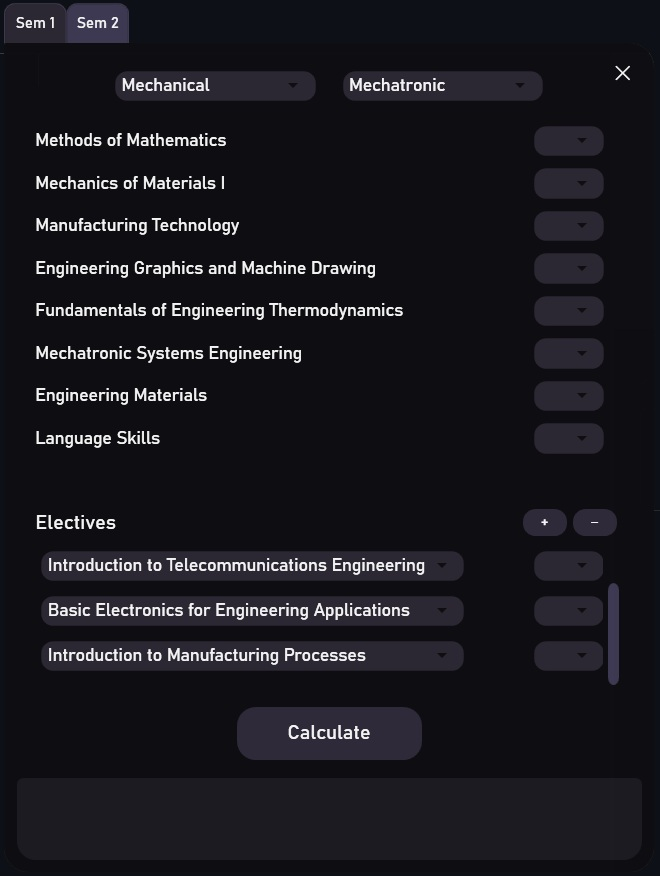
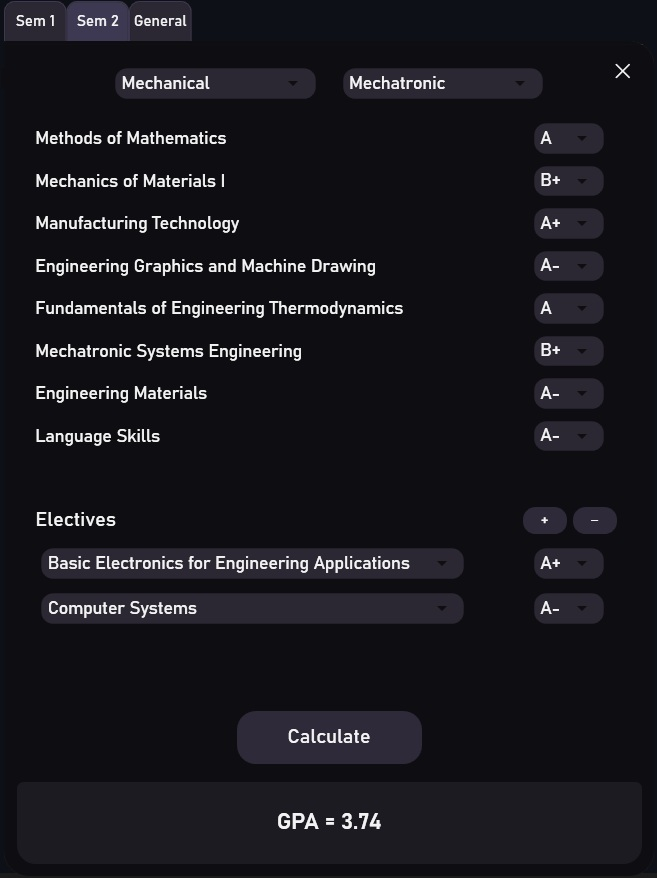
New Update
Added General Tab

diff --git a/GPA_Cal_BetterUI/MainWindow.xaml b/GPA_Cal_BetterUI/MainWindow.xaml
@@ -280,6 +280,60 @@
             </Setter>
         </Style>
 
+        <Style x:Key="RoundedTextBox" TargetType="TextBox">
+            <Setter Property="Foreground" Value="White"/>
+            <Setter Property="Background" Value="#FF302B3C"/>
+            <Setter Property="BorderBrush" Value="#FF403B55"/>
+            <Setter Property="BorderThickness" Value="1"/>
+            <Setter Property="Padding" Value="6,2"/>
+            <Setter Property="FontSize" Value="14"/>
+            <Setter Property="FontFamily" Value="Bahnschrift"/>
+            <Setter Property="VerticalContentAlignment" Value="Center"/>
+            <Setter Property="HorizontalContentAlignment" Value="Left"/>
+            <Setter Property="SelectionBrush" Value="#FF565075"/>
+            <Setter Property="CaretBrush" Value="White"/>
+
+            <Setter Property="Template">
+                <Setter.Value>
+                    <ControlTemplate TargetType="TextBox">
+                        <Border x:Name="Border"
+                        Background="{TemplateBinding Background}"
+                        BorderBrush="{TemplateBinding BorderBrush}"
+                        BorderThickness="{TemplateBinding BorderThickness}"
+                        CornerRadius="10"
+                        SnapsToDevicePixels="True">
+                            <ScrollViewer x:Name="PART_ContentHost"
+                                  Margin="{TemplateBinding Padding}"
+                                  VerticalScrollBarVisibility="Auto"
+                                  HorizontalScrollBarVisibility="Auto"
+                                  Background="Transparent"
+                                  Foreground="{TemplateBinding Foreground}"
+                                  SnapsToDevicePixels="True"/>
+                        </Border>
+
+                        <ControlTemplate.Triggers>
+                            <Trigger Property="IsMouseOver" Value="True">
+                                <Setter TargetName="Border" Property="Background" Value="#FF403B55"/>
+                            </Trigger>
+                            <Trigger Property="IsFocused" Value="True">
+                                <Setter TargetName="Border" Property="Background" Value="#FF565075"/>
+                                <Setter TargetName="Border" Property="BorderBrush" Value="#FF565075"/>
+                            </Trigger>
+                            <Trigger Property="IsEnabled" Value="False">
+                                <Setter TargetName="Border" Property="Background" Value="#FF1E1C25"/>
+                                <Setter TargetName="Border" Property="BorderBrush" Value="#FF1E1C25"/>
+                                <Setter Property="Foreground" Value="#FF555555"/>
+                            </Trigger>
+                            <Trigger Property="IsReadOnly" Value="True">
+                                <Setter TargetName="Border" Property="Background" Value="#FF2C2835"/>
+                                <Setter TargetName="Border" Property="BorderBrush" Value="#FF2C2835"/>
+                            </Trigger>
+                        </ControlTemplate.Triggers>
+                    </ControlTemplate>
+                </Setter.Value>
+            </Setter>
+        </Style>
+
         <Style TargetType="TabItem">
             <Setter Property="Foreground" Value="White"/>
             <Setter Property="Background" Value="#FF2C2835"/>
@@ -340,24 +394,27 @@
         </Grid.RowDefinitions>
 
         <TabControl Grid.Row="0" Background="Transparent" BorderThickness="0"
-                    Margin="0,5,0,0" SelectionChanged="TabControl_SelectionChanged">
+                    Margin="0,0,0,0" SelectionChanged="TabControl_SelectionChanged">
             <TabItem Header="Sem 1"/>
             <TabItem Header="Sem 2"/>
+            <TabItem Header="General"/>
         </TabControl>
 
         <!-- Main Window -->
         <Border Grid.Row="1" CornerRadius="2,20,20,20" Background="#FF0E0D11" SnapsToDevicePixels="True">
             <Grid>
 
+                <Grid x:Name="CompulsaryPanel" Visibility="Visible">   
                 <!-- Combo Boxes -->
-                <Border Margin="0,47,10,0" Height="460" VerticalAlignment="Top" HorizontalAlignment="Right" Width="116">
-                    <StackPanel x:Name="Grade_Panel"></StackPanel>
-                </Border>
+                    <Border Margin="0,47,10,0" Height="460" VerticalAlignment="Top" HorizontalAlignment="Right" Width="116">
+                        <StackPanel x:Name="Grade_Panel"></StackPanel>
+                    </Border>
 
-                <!-- Labels -->
-                <Border Margin="10,47,126,0" Height="460" VerticalAlignment="Top">
-                    <StackPanel x:Name="Labels_Panel"></StackPanel>
-                </Border>
+                    <!-- Labels -->
+                    <Border Margin="10,47,126,0" Height="460" VerticalAlignment="Top">
+                        <StackPanel x:Name="Labels_Panel"></StackPanel>
+                    </Border>
+                </Grid>
 
                 <!-- Semester 1 Tab -->
                 <Grid x:Name="Semester1Panel" Visibility="Collapsed">
@@ -452,6 +509,32 @@
                         <ComboBoxItem Content="Transport"/>
                         <ComboBoxItem Content="Earth Resource"/>
                     </ComboBox>
+                </Grid>
+
+                <!-- General Tab -->
+                <Grid x:Name="GeneralPanel" Visibility="Collapsed">
+                    <StackPanel Orientation="Horizontal" Margin="10,45,10,0" Height="33" VerticalAlignment="Top">
+                        <TextBlock Text="Add or Remove Modules" Foreground="White" FontSize="16" VerticalAlignment="Center" Width="300" Margin="15,0,0,0"/>
+                        <Button Style="{DynamicResource ButtonStyle2}" Content="+" Click="AddModule_Click" Width="35" Height="22" Margin="90,0,0,0" FontSize="12"/>
+                        <Button Style="{DynamicResource ButtonStyle2}" Content="−" Click="RemoveModule_Click" Width="35" Height="22" Margin="5,0,0,0" FontSize="12"/>
+                    </StackPanel>
+                    <Grid x:Name="HeaderRow" Visibility="Collapsed">
+                        <StackPanel Orientation="Horizontal" Margin="29,90,24,0" Height="23" VerticalAlignment="Top">
+                            <TextBlock Text="Module" TextAlignment="Center" Foreground="White" FontSize="15" VerticalAlignment="Center" Width="267" Margin="0,0,0,0"/>
+                            <TextBlock Text="Credit" TextAlignment="Center" Foreground="White" FontSize="15" VerticalAlignment="Center" Width="56" Margin="36,0,0,0"/>
+                            <TextBlock Text="Grade" TextAlignment="Center" Foreground="White" FontSize="15" VerticalAlignment="Center" Width="56" Margin="36,0,0,0"/>
+                        </StackPanel>
+                    </Grid>
+
+                    <ScrollViewer x:Name="ModuleScrollViewer" 
+                                  Margin="29,118,24,150" 
+                                  VerticalScrollBarVisibility="Auto" 
+                                  HorizontalScrollBarVisibility="Disabled">
+                        <ScrollViewer.Resources>
+                            <Style TargetType="ScrollBar" BasedOn="{StaticResource CustomScrollBar}"/>
+                        </ScrollViewer.Resources>
+                        <StackPanel x:Name="ModuleRowsContainer" Orientation="Vertical"/>
+                    </ScrollViewer>
                 </Grid>
 
                 <!-- Calculate Button -->

diff --git a/GPA_Cal_BetterUI/MainWindow.xaml.cs b/GPA_Cal_BetterUI/MainWindow.xaml.cs
@@ -32,7 +32,9 @@ namespace GPA_Cal_BetterUI
         private List<ComboBox> gradeComboList = new List<ComboBox>();
         private List<string> moduleList = new List<string>();
         private List<(ComboBox electiveCombo, ComboBox gradeCombo)> electivePairs = new List<(ComboBox, ComboBox)>();
+        private List<(TextBox creditBox, ComboBox gradeCombo)> modulePairs = new List<(TextBox, ComboBox)>();
         private const int MAX_ELECTIVES = 10;
+        private const int MAX_MODULES = 20;
 
         public MainWindow()
         {
@@ -102,7 +104,7 @@ namespace GPA_Cal_BetterUI
                     electiveCombo.Items.Add(elective);
 
                 // Create grade ComboBox
-                ComboBox gradeCombo = CreateGradeCombo();
+                ComboBox gradeCombo = CreateGradeCombo(54);
 
                 // Add both to the row panel
                 rowPanel.Children.Add(electiveCombo);
@@ -147,8 +149,88 @@ namespace GPA_Cal_BetterUI
             RemoveElectiveRow();
         }
 
+        // Add module row
+        private void AddModuleRow()
+        {
+            HeaderRow.Visibility = Visibility.Visible;
+
+            if (modulePairs.Count < MAX_MODULES)
+            {
+                // Create a horizontal container for the pair
+                StackPanel rowPanel = new StackPanel
+                {
+                    Orientation = Orientation.Horizontal,
+                    Height = 36,
+                    Margin = new Thickness(0, 0, 0, 0)
+                };
+
+                // Create module TextBox
+                TextBox moduleBox = new TextBox
+                {
+                    Style = (Style)FindResource("RoundedTextBox"),
+                    Width = 267,
+                    Height = 26,
+                    HorizontalAlignment = HorizontalAlignment.Left,
+                    VerticalAlignment = VerticalAlignment.Top,
+                    FontSize = 14
+                };
+
+                TextBox creditBox = new TextBox
+                {
+                    Style = (Style)FindResource("RoundedTextBox"),
+                    Width = 56,
+                    Height = 26,
+                    HorizontalAlignment = HorizontalAlignment.Left,
+                    VerticalAlignment = VerticalAlignment.Top,
+                    FontSize = 14,
+                    Margin = new Thickness( 36, 0, 0, 0 )
+                };
+
+                // Create grade ComboBox
+                ComboBox gradeCombo = CreateGradeCombo(36);
+
+                // Add them to the row panel
+                rowPanel.Children.Add(moduleBox);
+                rowPanel.Children.Add(creditBox);
+                rowPanel.Children.Add(gradeCombo);
+
+                // Add row to container
+                ModuleRowsContainer.Children.Add(rowPanel);
+                modulePairs.Add((creditBox, gradeCombo));
+            }
+        }
+
+        // Remove last elective row
+        private void RemoveModuleRow()
+        {
+            if (modulePairs.Count > 0)
+            {
+                var lastPair = modulePairs.Last();
+                var rowToRemove = ModuleRowsContainer.Children[ModuleRowsContainer.Children.Count - 1] as StackPanel;
+                ModuleRowsContainer.Children.Remove(rowToRemove);
+                modulePairs.RemoveAt(modulePairs.Count - 1);
+            }
+
+            if (modulePairs.Count == 0)
+            {
+                HeaderRow.Visibility = Visibility.Collapsed;
+            }
+        }
+
+        // Add module button click
+        private void AddModule_Click(object sender, RoutedEventArgs e)
+        {
+            AddModuleRow();
+        }
+
+        // Remove module button click
+        private void RemoveModule_Click(object sender, RoutedEventArgs e)
+        {
+            RemoveModuleRow();
+        }
+
         // Create grade ComboBox
-        private ComboBox CreateGradeCombo()
+        private ComboBox CreateGradeCombo(int gap)
         {
             ComboBox gradeCombo = new ComboBox
             {
@@ -162,7 +244,7 @@ namespace GPA_Cal_BetterUI
                 Foreground = (System.Windows.Media.Brush)new System.Windows.Media.BrushConverter().ConvertFromString("White"),
                 VerticalAlignment = VerticalAlignment.Top,
                 HorizontalAlignment = HorizontalAlignment.Center,
-                Margin = new Thickness(54, 0, 0, 0)
+                Margin = new Thickness(gap, 0, 0, 0)
             };
 
             string[] grades = { "A+", "A", "A-", "B+", "B", "B-", "C+", "C", "C-", "D", "F" };
@@ -182,8 +264,7 @@ namespace GPA_Cal_BetterUI
                 Margin = new Thickness(0, b, 0, 0)
             };
 
-            ComboBox gradeCombo = CreateGradeCombo();
-            gradeCombo.Margin = new Thickness(0, 0, 0, 0);
+            ComboBox gradeCombo = CreateGradeCombo(0);
 
             gradeComboList.Add(gradeCombo);
 
@@ -400,7 +481,7 @@ namespace GPA_Cal_BetterUI
                     "Geology",
                     "Introduction to Mining & Mineral Engineering",
                     "Basic Mine Thermodynamics",
-                    "Engineering Drawing & Computer Aided Modeling",
+                    "Engineering Drawing & Computer Aided Modelling",
                     "Humanities I",
                     "Language Skills"
                     };
@@ -451,6 +532,7 @@ namespace GPA_Cal_BetterUI
             int tabControl = (sender as TabControl).SelectedIndex;
             if (tabControl == 0) semester = 1;
             if (tabControl == 1) semester = 2;
+            if (tabControl == 2) semester = 0;
             SemSwitcher(semester);
             ResetDepartments(semester);
         }
@@ -460,17 +542,28 @@ namespace GPA_Cal_BetterUI
         {
             Result.Content = "";
 
-            if (sem == 1)
+            if (sem == 0)
             {
+                CompulsaryPanel.Visibility = Visibility.Collapsed;
+                Semester1Panel.Visibility = Visibility.Collapsed;
+                Semester2Panel.Visibility = Visibility.Collapsed;
+                GeneralPanel.Visibility = Visibility.Visible;
+            }
+            else if (sem == 1)
+            {
+                CompulsaryPanel.Visibility = Visibility.Visible;
                 Semester1Panel.Visibility = Visibility.Visible;
                 Semester2Panel.Visibility = Visibility.Collapsed;
+                GeneralPanel.Visibility = Visibility.Collapsed;
                 AddModuleLabels();
                 AddComboBox_Dep(46, 29);
             }
             else if (sem == 2)
             {
+                CompulsaryPanel.Visibility = Visibility.Visible;
                 Semester1Panel.Visibility = Visibility.Collapsed;
                 Semester2Panel.Visibility = Visibility.Visible;
+                GeneralPanel.Visibility = Visibility.Collapsed;
                 AddModuleLabels();
                 AddComboBox_Dep(34, 18);
             }
@@ -643,7 +736,7 @@ namespace GPA_Cal_BetterUI
         }
 
         // Credits array selector (for adding new semester or department course credits)
-        private List<int> CompulsaryCredit()
+        private List<int> CompulsoryCredit()
         {
             List<int> credits = null;
 
@@ -749,7 +842,7 @@ namespace GPA_Cal_BetterUI
             return (electiveGrades, electiveCredits);
         }
 
-        // Get grades of compulsary modules
+        // Get grades of compulsory modules
         private List<double> GetGrades()
         {
             var gradesList = new List<double>();
@@ -765,18 +858,60 @@ namespace GPA_Cal_BetterUI
             return gradesList;
         }
 
+        // Get General Tab Module Credit and Grade
+        private (List<int> creditList, List<double> gradeList) getGeneralModules()
+        {
+            List<int> creditList = new List<int>();
+            List<double> gradeList = new List<double>();
+
+            foreach ((TextBox credit, ComboBox grade) in modulePairs)
+            {
+
+                if (!int.TryParse(credit.Text, out int creditValue))
+                {
+                    Result.Content = "Enter a valid credit value";
+                }
+
+                if (grade.SelectedIndex == -1)
+                {
+                    Result.Content = "Please input all grades";
+                }
+
+                creditList.Add(creditValue);
+                gradeList.Add(GradeToGradePoint(grade.SelectedIndex));
+            }
+
+            return (creditList, gradeList);
+        }
+
         // Calculate button clicked
         private void Button_Click(object sender, RoutedEventArgs e)
         {
-            var grades = GetGrades();
-            var credits = CompulsaryCredit();
+            var creditList = new List<int>();
+            var gradeList = new List<double>();
 
-            (List<double> grades_El, List<int> credits_El) = GetSelectedElectives();
+            if (semester == 0)
+            {
+                (List<int> credit_List, List<double> grade_List) = getGeneralModules();
 
-            grades.AddRange(grades_El);
-            credits.AddRange(credits_El);
+                creditList.AddRange(credit_List);
+                gradeList.AddRange(grade_List);
+            }
+            else
+            {
+                var grades = GetGrades();
+                var credits = CompulsoryCredit();
 
-            double gpa = GpaCalculator(grades.ToArray(), credits.ToArray());
+                (List<double> grades_El, List<int> credits_El) = GetSelectedElectives();
+
+                grades.AddRange(grades_El);
+                credits.AddRange(credits_El);
+
+                gradeList.AddRange(grades);
+                creditList.AddRange(credits);
+            }
+
+            double gpa = GpaCalculator(gradeList.ToArray(), creditList.ToArray());
             Result.Content = "GPA = " + gpa.ToString("F2");
         }
     }